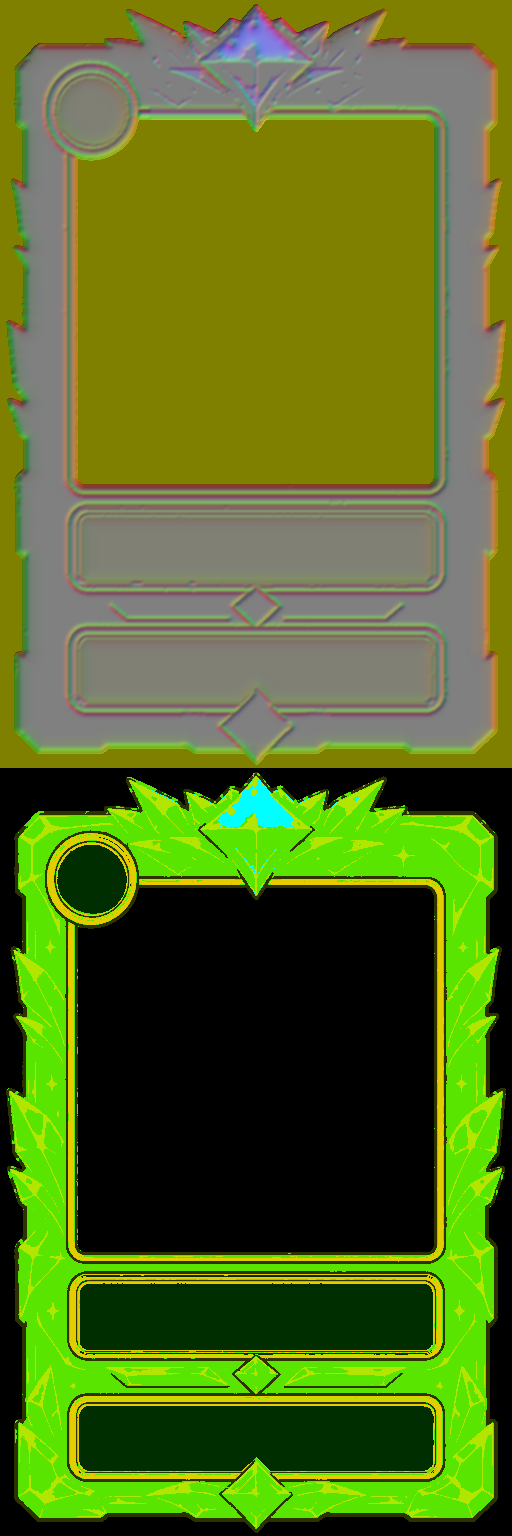
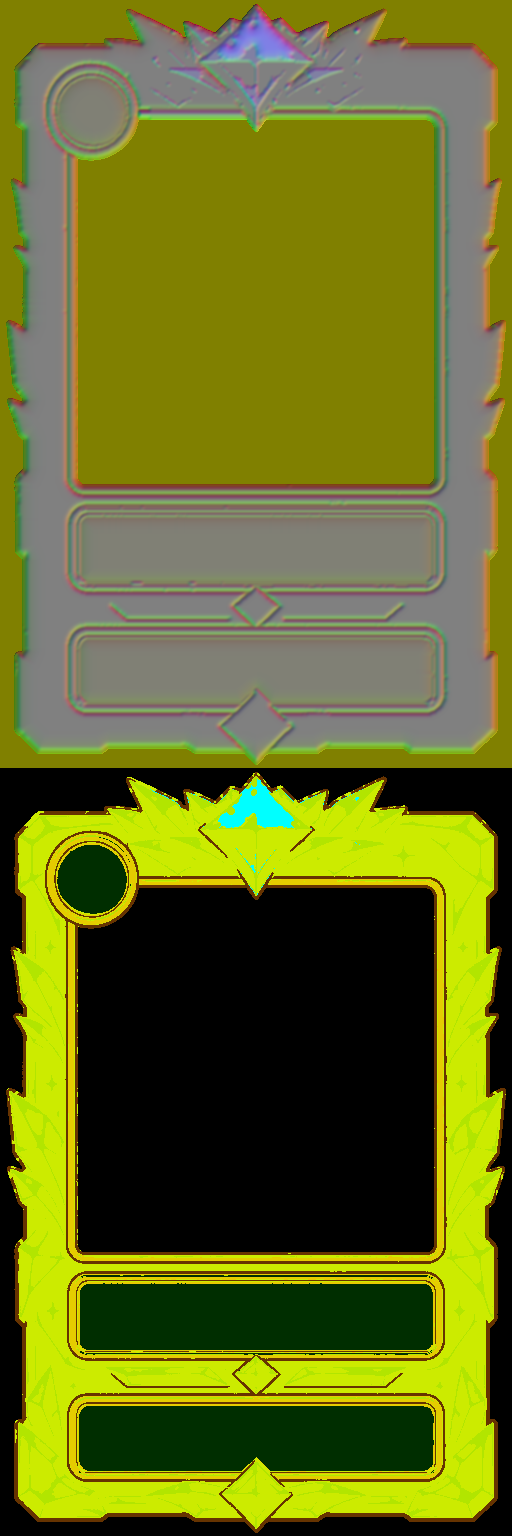
ランク報酬のカードスキンに、ランクごとの光り方とキラキラ（傾けると光る細かい粒）を足す
Claude-Session: https://claude.ai/code/session_01Lcti3PNmS2MwaLvva5LDfd

Changed region(s): [[0.0, 0.5, 1.0, 1.0]]

diff --git a/js/ui/precache.js b/js/ui/precache.js
@@ -1,2 +1,2 @@
-self.CF_CACHE_VERSION="03c8e7a3afb9c2ed";
+self.CF_CACHE_VERSION="106dabe7f9f86a73";
 self.CF_ASSETS=["index.html","manifest.webmanifest","css/accessibility.css","css/account.css","css/battle.css","css/beast.css","css/card-base.css","css/card-zoom.css","css/chat.css","css/components.css","css/deck.css","css/experience.css","css/finishing-art.css","css/fit.css","css/help-guide.css","css/hologram.css","css/home.css","css/kingdom.css","css/layout.css","css/mana-growth.css","css/materials.css","css/motion.css","css/mp.css","css/polish.css","css/rank-frames.css","css/rank-rewards.css","css/rarity-assets.css","css/rarity-fx.css","css/settings.css","css/step5.css","css/style.css","css/text-fit.css","css/theme.css","css/tokens.css","css/tutorial.css","css/weather.css","js/game/Card.js","js/game/Castle.js","js/game/Game.js","js/game/Monster.js","js/game/Player.js","js/game/Road.js","js/game/Setup.js","js/game/Soldier.js","js/game/Weather.js","js/game/strategies.js","js/game/visibility.js","js/main.js","js/ui/Accessibility.js","js/ui/Account.js","js/ui/AccountPanel.js","js/ui/Animations.js","js/ui/BattleLayout.js","js/ui/Card3D.js","js/ui/CardGuide.js","js/ui/CardInfo.js","js/ui/CardRelief.js","js/ui/CardZoom.js","js/ui/ChatView.js","js/ui/CollectionView.js","js/ui/Cosmetics.js","js/ui/DebugPanel.js","js/ui/DeckEditor.js","js/ui/DeckPreview.js","js/ui/DeckStore.js","js/ui/HandView.js","js/ui/HelpView.js","js/ui/Hologram.js","js/ui/Home.js","js/ui/LocalSetup.js","js/ui/MatchStats.js","js/ui/MaterialSkin.js","js/ui/MissionView.js","js/ui/Music.js","js/ui/OnlineClient.js","js/ui/ProfileView.js","js/ui/ProgressPanel.js","js/ui/Progression.js","js/ui/RankEmblem.js","js/ui/RankRewardsView.js","js/ui/RankedView.js","js/ui/Renderer.js","js/ui/RoomView.js","js/ui/Session.js","js/ui/Settings.js","js/ui/SocialView.js","js/ui/Sound.js","js/ui/Targeting.js","js/ui/Tutorial.js","js/ui/UpgradePanel.js","js/ui/WeatherView.js","js/ui/art.js","js/ui/cardFrame.js","js/ui/cardView.js","js/ui/config.js","js/ui/handOrder.js","js/ui/look.js","js/ui/motion.js","js/ui/pills.js","js/ui/profileArt.js","js/ui/rarity.js","js/ui/skinArt.js","js/ui/stories.js","js/ui/syncCheck.js","js/ui/text.js","data/cards.json","data/castles.json","data/decks.json","data/gacha.json","data/missions.json","data/modes.json","data/monsters.json","data/profile.json","data/progression.json","data/ranks.json","data/rarities.json","data/rules.json","data/seasons.json","data/shop.json","data/stamps.json","data/upgrades.json","data/weather.json","assets/asset-manifest.json","assets/bg/board-meadow-compact.png","assets/bg/board-meadow.png","assets/bg/board.png","assets/bg/home-castle.png","assets/bg/kingdom-meadow.png","assets/bg/kingdom-valley.png","assets/bg/title-compact.png","assets/bg/title.png","assets/cards/card-absolute-zero.png","assets/cards/card-adapt.png","assets/cards/card-antidote.png","assets/cards/card-apocalypse.png","assets/cards/card-apprentice-archer.png","assets/cards/card-apprentice-mage.png","assets/cards/card-archer.png","assets/cards/card-archmage.png","assets/cards/card-barrier.png","assets/cards/card-beast-bat.png","assets/cards/card-beast-demon-king.png","assets/cards/card-beast-demon.png","assets/cards/card-beast-dragon.png","assets/cards/card-beast-ghost.png","assets/cards/card-beast-goblin.png","assets/cards/card-beast-golem.png","assets/cards/card-beast-mimic.png","assets/cards/card-beast-skeleton.png","assets/cards/card-beast-slime.png","assets/cards/card-beast-treant.png","assets/cards/card-beast-vampire.png","assets/cards/card-big-shield.png","assets/cards/card-big-thunder.png","assets/cards/card-blessing.png","assets/cards/card-bolt.png","assets/cards/card-cavalry.png","assets/cards/card-coin-pouch.png","assets/cards/card-death-mist.png","assets/cards/card-decoy.png","assets/cards/card-deep-freeze.png","assets/cards/card-dragon-knight.png","assets/cards/card-earth-hammer.png","assets/cards/card-earth-king.png","assets/cards/card-earth-spirit.png","assets/cards/card-fire-king.png","assets/cards/card-fire-spirit.png","assets/cards/card-fireball.png","assets/cards/card-flame-sword.png","assets/cards/card-frost-breath.png","assets/cards/card-frozen-world.png","assets/cards/card-gate.png","assets/cards/card-giant.png","assets/cards/card-glacier.png","assets/cards/card-god-shield.png","assets/cards/card-god-sword.png","assets/cards/card-goddess.png","assets/cards/card-gold-coin.png","assets/cards/card-gold-vein.png","assets/cards/card-great-earth-spirit.png","assets/cards/card-great-fire-spirit.png","assets/cards/card-great-heal.png","assets/cards/card-great-water-spirit.png","assets/cards/card-great-wind-spirit.png","assets/cards/card-heal.png","assets/cards/card-heavy.png","assets/cards/card-hero.png","assets/cards/card-holy-light.png","assets/cards/card-holy-shield.png","assets/cards/card-holy-sword.png","assets/cards/card-infantry.png","assets/cards/card-inferno.png","assets/cards/card-iron-sword.png","assets/cards/card-judgment.png","assets/cards/card-king-treasure.png","assets/cards/card-knight.png","assets/cards/card-longbowman.png","assets/cards/card-mage.png","assets/cards/card-magic-sword.png","assets/cards/card-mana-crystal.png","assets/cards/card-mana-drop.png","assets/cards/card-mana-shard.png","assets/cards/card-mana-spring.png","assets/cards/card-meteor.png","assets/cards/card-minor-heal.png","assets/cards/card-paladin.png","assets/cards/card-plague.png","assets/cards/card-poison-mist.png","assets/cards/card-prayer.png","assets/cards/card-raijin.png","assets/cards/card-reflect.png","assets/cards/card-sage.png","assets/cards/card-sandbag.png","assets/cards/card-scout.png","assets/cards/card-shield.png","assets/cards/card-sky-archer.png","assets/cards/card-sniper.png","assets/cards/card-sorcerer.png","assets/cards/card-spearman.png","assets/cards/card-starfall.png","assets/cards/card-steel-shield.png","assets/cards/card-stone-wall.png","assets/cards/card-thief.png","assets/cards/card-thunder.png","assets/cards/card-toxic-rain.png","assets/cards/card-treasure.png","assets/cards/card-venom.png","assets/cards/card-wall.png","assets/cards/card-water-king.png","assets/cards/card-water-spear.png","assets/cards/card-water-spirit.png","assets/cards/card-weather-call.png","assets/cards/card-wind-bow.png","assets/cards/card-wind-king.png","assets/cards/card-wind-spirit.png","assets/cards/card-world-tree-dew.png","assets/cards/frame-beast.png","assets/cards/frame-common.png","assets/cards/frame-epic.png","assets/cards/frame-legendary.png","assets/cards/frame-rare.png","assets/cards/frame-skin-bronze.png","assets/cards/frame-skin-champion.png","assets/cards/frame-skin-diamond.png","assets/cards/frame-skin-gold.png","assets/cards/frame-skin-iron.png","assets/cards/frame-skin-master.png","assets/cards/frame-skin-platinum.png","assets/cards/frame-skin-silver.png","assets/cards/frame-special.png","assets/cards/frame-uncommon.png","assets/cards/relief/frame-beast-raised.png","assets/cards/relief/frame-beast-relief.png","assets/cards/relief/frame-common-raised.png","assets/cards/relief/frame-common-relief.png","assets/cards/relief/frame-epic-raised.png","assets/cards/relief/frame-epic-relief.png","assets/cards/relief/frame-legendary-raised.png","assets/cards/relief/frame-legendary-relief.png","assets/cards/relief/frame-rare-raised.png","assets/cards/relief/frame-rare-relief.png","assets/cards/relief/frame-skin-bronze-raised.png","assets/cards/relief/frame-skin-bronze-relief.png","assets/cards/relief/frame-skin-champion-raised.png","assets/cards/relief/frame-skin-champion-relief.png","assets/cards/relief/frame-skin-diamond-raised.png","assets/cards/relief/frame-skin-diamond-relief.png","assets/cards/relief/frame-skin-gold-raised.png","assets/cards/relief/frame-skin-gold-relief.png","assets/cards/relief/frame-skin-iron-raised.png","assets/cards/relief/frame-skin-iron-relief.png","assets/cards/relief/frame-skin-master-raised.png","assets/cards/relief/frame-skin-master-relief.png","assets/cards/relief/frame-skin-platinum-raised.png","assets/cards/relief/frame-skin-platinum-relief.png","assets/cards/relief/frame-skin-silver-raised.png","assets/cards/relief/frame-skin-silver-relief.png","assets/cards/relief/frame-special-raised.png","assets/cards/relief/frame-special-relief.png","assets/cards/relief/frame-uncommon-raised.png","assets/cards/relief/frame-uncommon-relief.png","assets/cards/window-beast.png","assets/cards/window-common.png","assets/cards/window-epic.png","assets/cards/window-legendary.png","assets/cards/window-rare.png","assets/cards/window-special.png","assets/cards/window-uncommon.png","assets/castles/barracks-blue-damaged-1.png","assets/castles/barracks-blue-damaged-2.png","assets/castles/barracks-blue-damaged-3.png","assets/castles/barracks-blue.png","assets/castles/barracks-orange-damaged-1.png","assets/castles/barracks-orange-damaged-2.png","assets/castles/barracks-orange-damaged-3.png","assets/castles/barracks-orange.png","assets/castles/castle-blue-damaged-1.png","assets/castles/castle-blue-damaged-2.png","assets/castles/castle-blue-damaged-3.png","assets/castles/castle-blue-ruined.png","assets/castles/castle-blue.png","assets/castles/castle-orange-damaged-1.png","assets/castles/castle-orange-damaged-2.png","assets/castles/castle-orange-damaged-3.png","assets/castles/castle-orange-ruined.png","assets/castles/castle-orange.png","assets/castles/fortress-blue-damaged-1.png","assets/castles/fortress-blue-damaged-2.png","assets/castles/fortress-blue-damaged-3.png","assets/castles/fortress-blue.png","assets/castles/fortress-orange-damaged-1.png","assets/castles/fortress-orange-damaged-2.png","assets/castles/fortress-orange-damaged-3.png","assets/castles/fortress-orange.png","assets/castles/tower-blue-damaged-1.png","assets/castles/tower-blue-damaged-2.png","assets/castles/tower-blue-damaged-3.png","assets/castles/tower-blue.png","assets/castles/tower-orange-damaged-1.png","assets/castles/tower-orange-damaged-2.png","assets/castles/tower-orange-damaged-3.png","assets/castles/tower-orange.png","assets/frames/rank-frame-bronze.png","assets/frames/rank-frame-champion.png","assets/frames/rank-frame-diamond.png","assets/frames/rank-frame-gold.png","assets/frames/rank-frame-iron.png","assets/frames/rank-frame-master.png","assets/frames/rank-frame-platinum.png","assets/frames/rank-frame-silver.png","assets/fx/dust.png","assets/fx/evolve-1.png","assets/fx/evolve-2.png","assets/fx/evolve-3.png","assets/fx/explosion.png","assets/fx/fireball.png","assets/fx/fusion.png","assets/fx/heal.png","assets/fx/ice.png","assets/fx/lightning.png","assets/fx/lucky-reward.png","assets/fx/poison.png","assets/profiles/archer.png","assets/profiles/hero.png","assets/profiles/infantry.png","assets/profiles/knight.png","assets/profiles/mage.png","assets/profiles/spearman.png","assets/ranks/rank-bronze.png","assets/ranks/rank-champion.png","assets/ranks/rank-diamond.png","assets/ranks/rank-gold.png","assets/ranks/rank-iron.png","assets/ranks/rank-master.png","assets/ranks/rank-platinum.png","assets/ranks/rank-silver.png","assets/skins/back-crimson-raised.png","assets/skins/back-crimson.png","assets/skins/back-forest-raised.png","assets/skins/back-forest.png","assets/skins/back-gold-raised.png","assets/skins/back-gold.png","assets/skins/back-rank-bronze-raised.png","assets/skins/back-rank-bronze.png","assets/skins/back-rank-champion-raised.png","assets/skins/back-rank-champion.png","assets/skins/back-rank-diamond-raised.png","assets/skins/back-rank-diamond.png","assets/skins/back-rank-gold-raised.png","assets/skins/back-rank-gold.png","assets/skins/back-rank-iron-raised.png","assets/skins/back-rank-iron.png","assets/skins/back-rank-master-raised.png","assets/skins/back-rank-master.png","assets/skins/back-rank-platinum-raised.png","assets/skins/back-rank-platinum.png","assets/skins/back-rank-silver-raised.png","assets/skins/back-rank-silver.png","assets/skins/back-royal-raised.png","assets/skins/back-royal.png","assets/skins/castle-crimson.png","assets/skins/castle-forest.png","assets/skins/castle-frost.png","assets/skins/castle-gold.png","assets/skins/castle-shadow.png","assets/skins/fx-azure.png","assets/skins/fx-emerald.png","assets/skins/fx-gold.png","assets/skins/fx-violet.png","assets/skins/icon-dragon-knight.png","assets/skins/icon-giant.png","assets/skins/icon-paladin.png","assets/skins/icon-sage.png","assets/skins/icon-scout.png","assets/skins/icon-sniper.png","assets/skins/title-hunter.png","assets/skins/title-legend.png","assets/skins/title-lucky.png","assets/skins/title-rookie.png","assets/skins/title-wall.png","assets/skins/unit-crimson.png","assets/skins/unit-forest.png","assets/skins/unit-frost.png","assets/skins/unit-gold.png","assets/skins/unit-royal.png","assets/skins/unit-shadow.png","assets/skins/win-aurora.png","assets/skins/win-gold.png","assets/skins/win-sakura.png","assets/ui/app-icon-192.png","assets/ui/app-icon-512.png","assets/ui/app-icon-maskable-512.png","assets/ui/apple-touch-icon.png","assets/ui/banner-win.png","assets/ui/btn-blue.png","assets/ui/btn-cream.png","assets/ui/btn-green.png","assets/ui/btn-orange.png","assets/ui/btn-red.png","assets/ui/btn-round.png","assets/ui/button-end-turn.png","assets/ui/card-back.png","assets/ui/home/casual.png","assets/ui/home/catalog.png","assets/ui/home/deck.png","assets/ui/home/friend.png","assets/ui/home/gacha.png","assets/ui/home/mission.png","assets/ui/home/profile.png","assets/ui/home/rank.png","assets/ui/home/ranking.png","assets/ui/home/settings.png","assets/ui/home/shop.png","assets/ui/home/skin.png","assets/ui/icon-coin.png","assets/ui/icon-earth.png","assets/ui/icon-fire.png","assets/ui/icon-heart.png","assets/ui/icon-help.png","assets/ui/icon-kind-defense.png","assets/ui/icon-kind-soldier.png","assets/ui/icon-kind-spell.png","assets/ui/icon-kind-weapon.png","assets/ui/icon-kind-wild.png","assets/ui/icon-luck.png","assets/ui/icon-mode-local.png","assets/ui/icon-mode-online.png","assets/ui/icon-mode-solo.png","assets/ui/icon-mp.png","assets/ui/icon-rarity-common.png","assets/ui/icon-rarity-epic.png","assets/ui/icon-rarity-legendary.png","assets/ui/icon-rarity-rare.png","assets/ui/icon-rarity-special.png","assets/ui/icon-rarity-uncommon.png","assets/ui/icon-water.png","assets/ui/icon-wind.png","assets/ui/kingdom-crest.png","assets/ui/kingdom-parchment.png","assets/ui/kingdom-platform.png","assets/ui/kingdom-primary.png","assets/ui/kingdom-secondary.png","assets/ui/kingdom-wood.png","assets/ui/logo.png","assets/ui/natural/danger-40-left.png","assets/ui/natural/danger-40-middle.png","assets/ui/natural/danger-40-right.png","assets/ui/natural/danger-44-left.png","assets/ui/natural/danger-44-middle.png","assets/ui/natural/danger-44-right.png","assets/ui/natural/danger-72-left.png","assets/ui/natural/danger-72-middle.png","assets/ui/natural/danger-72-right.png","assets/ui/natural/frame.png","assets/ui/natural/leather-tile.png","assets/ui/natural/neutral-40-left.png","assets/ui/natural/neutral-40-middle.png","assets/ui/natural/neutral-40-right.png","assets/ui/natural/neutral-44-left.png","assets/ui/natural/neutral-44-middle.png","assets/ui/natural/neutral-44-right.png","assets/ui/natural/neutral-72-left.png","assets/ui/natural/neutral-72-middle.png","assets/ui/natural/neutral-72-right.png","assets/ui/natural/neutral-wide-full.png","assets/ui/natural/oak-tile.png","assets/ui/natural/paper-tile.png","assets/ui/natural/primary-40-left.png","assets/ui/natural/primary-40-middle.png","assets/ui/natural/primary-40-right.png","assets/ui/natural/primary-44-left.png","assets/ui/natural/primary-44-middle.png","assets/ui/natural/primary-44-right.png","assets/ui/natural/primary-72-left.png","assets/ui/natural/primary-72-middle.png","assets/ui/natural/primary-72-right.png","assets/ui/natural/primary-wide-full.png","assets/ui/natural/round-neutral.png","assets/ui/natural/round-selected.png","assets/ui/natural/selected-40-left.png","assets/ui/natural/selected-40-middle.png","assets/ui/natural/selected-40-right.png","assets/ui/natural/selected-44-left.png","assets/ui/natural/selected-44-middle.png","assets/ui/natural/selected-44-right.png","assets/ui/natural/selected-72-left.png","assets/ui/natural/selected-72-middle.png","assets/ui/natural/selected-72-right.png","assets/ui/panel-parchment.png","assets/ui/result-defeat.png","assets/ui/result-victory.png","assets/ui/sign-hp.png","assets/ui/stamps/again.png","assets/ui/stamps/gg.png","assets/ui/stamps/go.png","assets/ui/stamps/hello.png","assets/ui/stamps/nice.png","assets/ui/stamps/ouch.png","assets/ui/stamps/scared.png","assets/ui/stamps/smug.png","assets/ui/stamps/sorry.png","assets/ui/stamps/thanks.png","assets/ui/stamps/think.png","assets/ui/stamps/yay.png","assets/ui/tap-plate.png","assets/ui/title-castle-blue.png","assets/ui/title-castle-orange.png","assets/ui/title-infantry-orange.png","assets/ui/title-knight-blue.png","assets/ui/weather-coin-rain.png","assets/ui/weather-fog.png","assets/ui/weather-heavy-rain.png","assets/ui/weather-rain.png","assets/ui/weather-sandstorm.png","assets/ui/weather-storm.png","assets/ui/weather-sunny.png","assets/units/apprentice-archer-blue.png","assets/units/apprentice-archer-orange.png","assets/units/apprentice-mage-blue.png","assets/units/apprentice-mage-orange.png","assets/units/archer-blue.png","assets/units/archer-orange.png","assets/units/archmage-blue.png","assets/units/archmage-orange.png","assets/units/cavalry-blue.png","assets/units/cavalry-orange.png","assets/units/dragon-knight-blue.png","assets/units/dragon-knight-orange.png","assets/units/earth-spirit.png","assets/units/fire-spirit.png","assets/units/giant-blue.png","assets/units/giant-orange.png","assets/units/great-earth-spirit.png","assets/units/great-fire-spirit.png","assets/units/great-water-spirit.png","assets/units/great-wind-spirit.png","assets/units/heavy-blue.png","assets/units/heavy-orange.png","assets/units/hero-blue.png","assets/units/hero-orange.png","assets/units/infantry-blue.png","assets/units/infantry-orange.png","assets/units/knight-blue.png","assets/units/knight-orange.png","assets/units/longbowman-blue.png","assets/units/longbowman-orange.png","assets/units/mage-blue.png","assets/units/mage-orange.png","assets/units/monster-bat.png","assets/units/monster-demon-king.png","assets/units/monster-demon.png","assets/units/monster-dragon.png","assets/units/monster-ghost.png","assets/units/monster-goblin.png","assets/units/monster-golem.png","assets/units/monster-mimic.png","assets/units/monster-skeleton.png","assets/units/monster-slime.png","assets/units/monster-treant.png","assets/units/monster-vampire.png","assets/units/paladin-blue.png","assets/units/paladin-orange.png","assets/units/sage-blue.png","assets/units/sage-orange.png","assets/units/scout-blue.png","assets/units/scout-orange.png","assets/units/sky-archer-blue.png","assets/units/sky-archer-orange.png","assets/units/sniper-blue.png","assets/units/sniper-orange.png","assets/units/sorcerer-blue.png","assets/units/sorcerer-orange.png","assets/units/spearman-blue.png","assets/units/spearman-orange.png","assets/units/water-spirit.png","assets/units/wind-spirit.png"];

diff --git a/js/ui/CardRelief.js b/js/ui/CardRelief.js
@@ -17,7 +17,7 @@ varying vec2 vUv;
 uniform sampler2D uFrame, uRelief, uRaised;
 uniform vec3 uL, uV;
 uniform mat3 uM;
-uniform float uFlat, uBump, uSpec, uEnv, uIri, uGem, uPar, uKd, uLayer, uShadow;
+uniform float uFlat, uBump, uSpec, uEnv, uIri, uGem, uPar, uKd, uLayer, uShadow, uGlit;
 vec3 hsv2rgb(vec3 c) { vec3 p = abs(fract(c.xxx + vec3(1., 2. / 3., 1. / 3.)) * 6. - 3.); return c.z * mix(vec3(1.), clamp(p - 1., 0., 1.), c.y); }
 // 部屋の明かり（世界に固定）：上の細長い照明と、右のうすい照明。なめらかな面ほど縁がはっきり映る
 float env(vec3 r, float sharp) {
@@ -61,6 +61,19 @@ void main() {
     float hue = fract(dot(R.xy, vec2(.55, .8)) + vUv.y * .7 + vUv.x * .35);
     col += hsv2rgb(vec3(hue, .55, 1.)) * uIri * metal * (.12 + .7 * e + key);
   }
+  // キラキラ：金属・宝石の上の細かい粒。粒ごとに向きが違うので、傾けると別の粒が光る（虹色の強いスキンは粒も色づく）
+  if (uGlit > 0.) {
+    vec2 cell = floor(uv * vec2(96., 144.));
+    float r1 = fract(sin(dot(cell, vec2(12.9898, 78.233))) * 43758.5453);
+    float r2 = fract(sin(dot(cell, vec2(39.3468, 11.135))) * 24634.6345);
+    float r3 = fract(r1 * 7.13 + r2 * 3.71);
+    vec3 gn = normalize(vec3(r1 * 2. - 1., r2 * 2. - 1., 1.6));
+    float sp = pow(max(dot(reflect(-uL, gn), V), 0.), 90.) * step(.55, r3);
+    vec2 f = fract(uv * vec2(96., 144.)) - .5;
+    float dotMask = smoothstep(.5, .1, length(f));
+    vec3 sc = mix(vec3(1., .97, .9), hsv2rgb(vec3(r3, .55, 1.)), min(uIri * 1.3, 1.));
+    col += sc * sp * dotMask * uGlit * 3. * clamp(metal * .9 + gem + .25 * smooth, 0., 1.);
+  }
   if (uLayer < .5) {
     // 浮かせた部品の真下（ずれたときに見える所）は側面として暗く、光の反対側には影を落とす
     col *= 1. - .3 * raisedHere;
@@ -82,6 +95,15 @@ const PRESETS = {
   legendary: { bump: 1.35, spec: 1,  env: 1.25, iri: 0,  gem: 1.25, kd: .75 },
   special:   { bump: 1.1, spec: .9,  env: .9,  iri: .9,  gem: 1,   kd: .65 },
   other:     { bump: 1,   spec: .6,  env: .7,  iri: 0,   gem: .8,  kd: .6 },
+  // ランク報酬のカードスキン：上のランクほど光り・キラキラ（glit）が強い
+  'skin-iron':     { bump: 1.1,  spec: .7,  env: .8,  iri: 0,   gem: .6,  kd: .65, glit: .25 },
+  'skin-bronze':   { bump: 1.1,  spec: .8,  env: .9,  iri: 0,   gem: .9,  kd: .65, glit: .35 },
+  'skin-silver':   { bump: 1.15, spec: .9,  env: 1,   iri: 0,   gem: 1,   kd: .7,  glit: .45 },
+  'skin-gold':     { bump: 1.2,  spec: 1,   env: 1.15, iri: 0,  gem: 1.1, kd: .72, glit: .55 },
+  'skin-platinum': { bump: 1.2,  spec: 1,   env: 1.15, iri: .25, gem: 1.15, kd: .72, glit: .7 },
+  'skin-diamond':  { bump: 1.25, spec: 1.1, env: 1.2, iri: .45, gem: 1.3, kd: .75, glit: .95 },
+  'skin-master':   { bump: 1.3,  spec: 1.1, env: 1.2, iri: .35, gem: 1.3, kd: .75, glit: .9 },
+  'skin-champion': { bump: 1.35, spec: 1.15, env: 1.3, iri: .6, gem: 1.35, kd: .78, glit: 1.1 },
 };
 export const CARD_LIGHT = (() => { const v = [-.42, -.62, .66]; const l = Math.hypot(...v); return v.map(x => x / l); })();
 
@@ -123,7 +145,7 @@ function context(slot) {
   gl.enableVertexAttribArray(loc);
   gl.vertexAttribPointer(loc, 2, gl.FLOAT, false, 0, 0);
   const u = {};
-  for (const name of ['uFrame', 'uRelief', 'uRaised', 'uL', 'uV', 'uM', 'uFlat', 'uBump', 'uSpec', 'uEnv', 'uIri', 'uGem', 'uPar', 'uKd', 'uLayer', 'uShadow']) u[name] = gl.getUniformLocation(prog, name);
+  for (const name of ['uFrame', 'uRelief', 'uRaised', 'uL', 'uV', 'uM', 'uFlat', 'uBump', 'uSpec', 'uEnv', 'uIri', 'uGem', 'uPar', 'uKd', 'uLayer', 'uShadow', 'uGlit']) u[name] = gl.getUniformLocation(prog, name);
   gl.uniform1i(u.uFrame, 0); gl.uniform1i(u.uRelief, 1); gl.uniform1i(u.uRaised, 2);
   gl.disable(gl.DEPTH_TEST);
   const entry = { canvas, gl, u, textures: [], owner: null, onLost: null };
@@ -195,7 +217,7 @@ export async function createRelief({ frameSrc, preset, pixelRatioLimit = 2, isCu
       gl.uniformMatrix3fv(u.uM, false, Mcol);
       gl.uniform1f(u.uFlat, CARD_LIGHT[2]);
       gl.uniform1f(u.uBump, p.bump); gl.uniform1f(u.uSpec, p.spec); gl.uniform1f(u.uEnv, p.env);
-      gl.uniform1f(u.uIri, p.iri); gl.uniform1f(u.uGem, p.gem); gl.uniform1f(u.uKd, p.kd);
+      gl.uniform1f(u.uIri, p.iri); gl.uniform1f(u.uGem, p.gem); gl.uniform1f(u.uKd, p.kd); gl.uniform1f(u.uGlit, p.glit ?? 0);
       gl.uniform1f(u.uPar, .018); gl.uniform1f(u.uShadow, .012);
       gl.uniform1f(u.uLayer, layer);
       gl.clearColor(0, 0, 0, 0); gl.clear(gl.COLOR_BUFFER_BIT);

diff --git a/js/ui/build-card-relief.js b/js/ui/build-card-relief.js
@@ -48,8 +48,8 @@ const SKINS = {
   silver:   { base: { metal: .85, smooth: .75 }, gold: { metal: .9, smooth: .8 }, gemHue: [180, 240], raised: [[150, 0, 362, 130]] },
   gold:     { base: { metal: .9, smooth: .82 }, gold: { metal: .95, smooth: .88 }, gemHue: [0, 40], raised: [[150, 0, 362, 130]] },
   platinum: { base: { metal: .75, smooth: .85 }, silver: { metal: .85, smooth: .85 }, gold: { metal: .9, smooth: .8 }, gemHue: [170, 220], raised: [[150, 0, 362, 130]] },
-  diamond:  { base: { metal: .35, smooth: .9 }, silver: { metal: .7, smooth: .9 }, gold: { metal: .9, smooth: .8 }, gemHue: [190, 270], gemMinSat: .25, raised: [[150, 0, 362, 130]] },
-  master:   { base: { metal: .4, smooth: .8 }, gold: { metal: .95, smooth: .88 }, gemHue: [270, 330], raised: [[150, 0, 362, 140]] },
+  diamond:  { base: { metal: .8, smooth: .92 }, silver: { metal: .7, smooth: .9 }, gold: { metal: .9, smooth: .8 }, gemHue: [190, 270], gemMinSat: .25, raised: [[150, 0, 362, 130]] },
+  master:   { base: { metal: .75, smooth: .88 }, gold: { metal: .95, smooth: .88 }, gemHue: [270, 330], raised: [[150, 0, 362, 140]] },
   champion: { base: { metal: .7, smooth: .88 }, gold: { metal: 1, smooth: .92 }, silver: { metal: .7, smooth: .92 }, gemHue: [190, 340], gemMinSat: .18, raised: [[150, 0, 362, 140], [0, 120, 150, 470], [362, 120, 512, 470]] },
 };
 for (const [rank, cfg] of Object.entries(SKINS)) FRAMES[`skin-${rank}`] = { ...cfg, paper: SKIN_PAPER };

diff --git a/js/ui/Card3D.js b/js/ui/Card3D.js
@@ -232,7 +232,7 @@ export function createCard3D(card, { rarityColor, shadow, quality = 'auto' } = {
     if (relief || loading || !canUseRelief() || cardMotionReduced()) return;
     loading = true;
     const current = () => active && card.isConnected && !cardMotionReduced();
-    const result = await createRelief({ frameSrc: source, preset: rarity, isCurrent: current,
+    const result = await createRelief({ frameSrc: source, preset: card.dataset.skin ? `skin-${card.dataset.skin}` : rarity, isCurrent: current,
       pixelRatioLimit: quality === 'full' ? 2 : config.reliefPixelRatio,
       onLost: () => { if (active) dropRelief(); } }).catch(() => null);
     loading = false;
